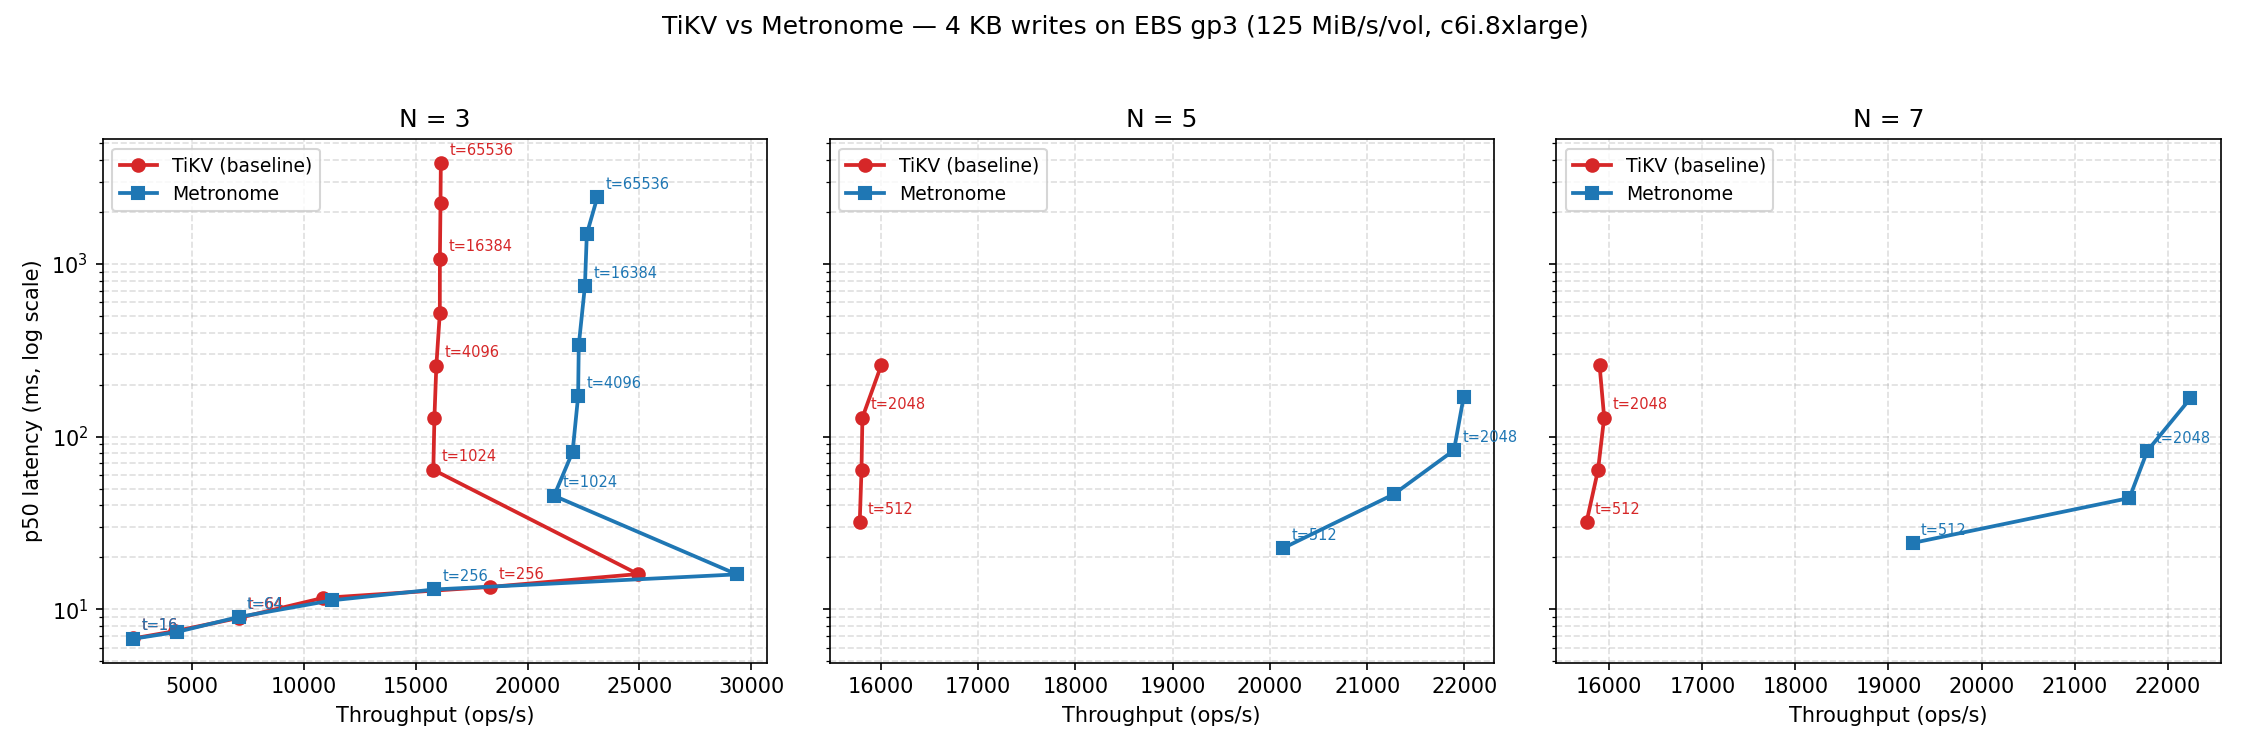
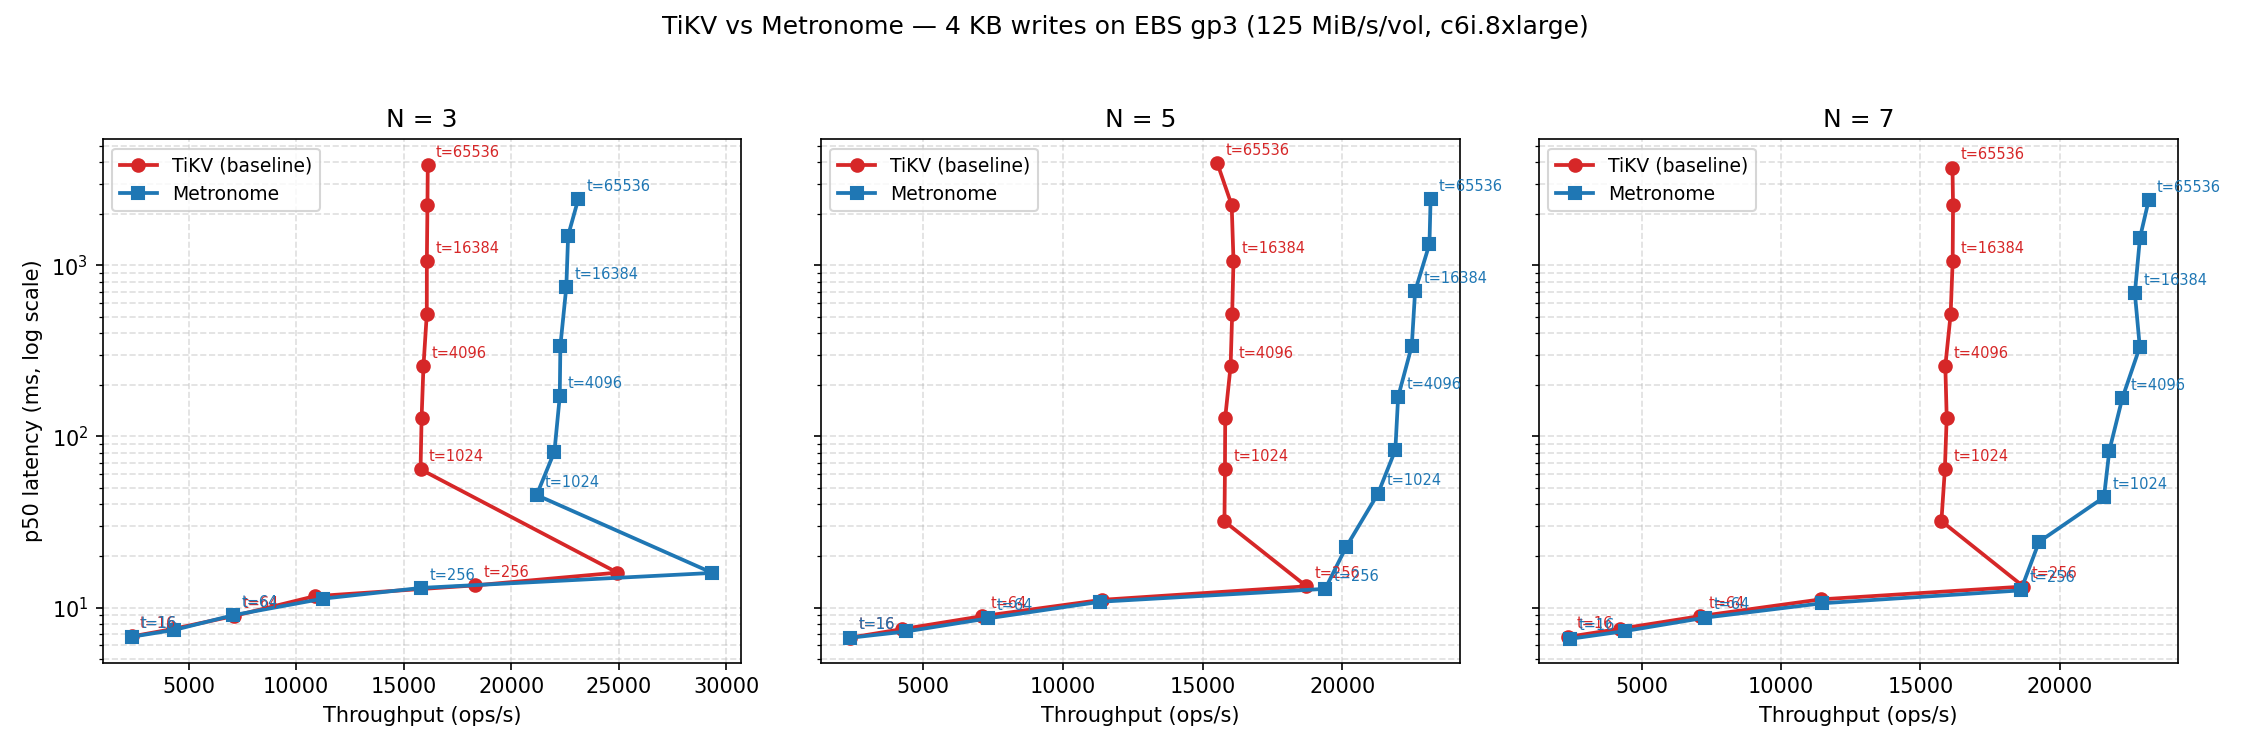
:bar_chart: full N=5,7 4KB knee data + updated plot

diff --git a/components/raftstore/examples/aws/results/plot_4kb_knee.py b/components/raftstore/examples/aws/results/plot_4kb_knee.py
@@ -24,6 +24,7 @@ SOURCES = [
     "knee-N3-extend2.csv",           # N=3 t=8192..16384
     "knee-N3-extend3.csv",           # N=3 t=32768..65536
     "knee-N57-ebs125.csv",           # N=5,7 t=512..4096
+    "knee-N57-4kb-fill.csv",         # N=5,7 t=16..256 and t=8192..65536
 ]
 
 # data[(n, mode)] = list of (threads, ops, p50_us, p99_us)
